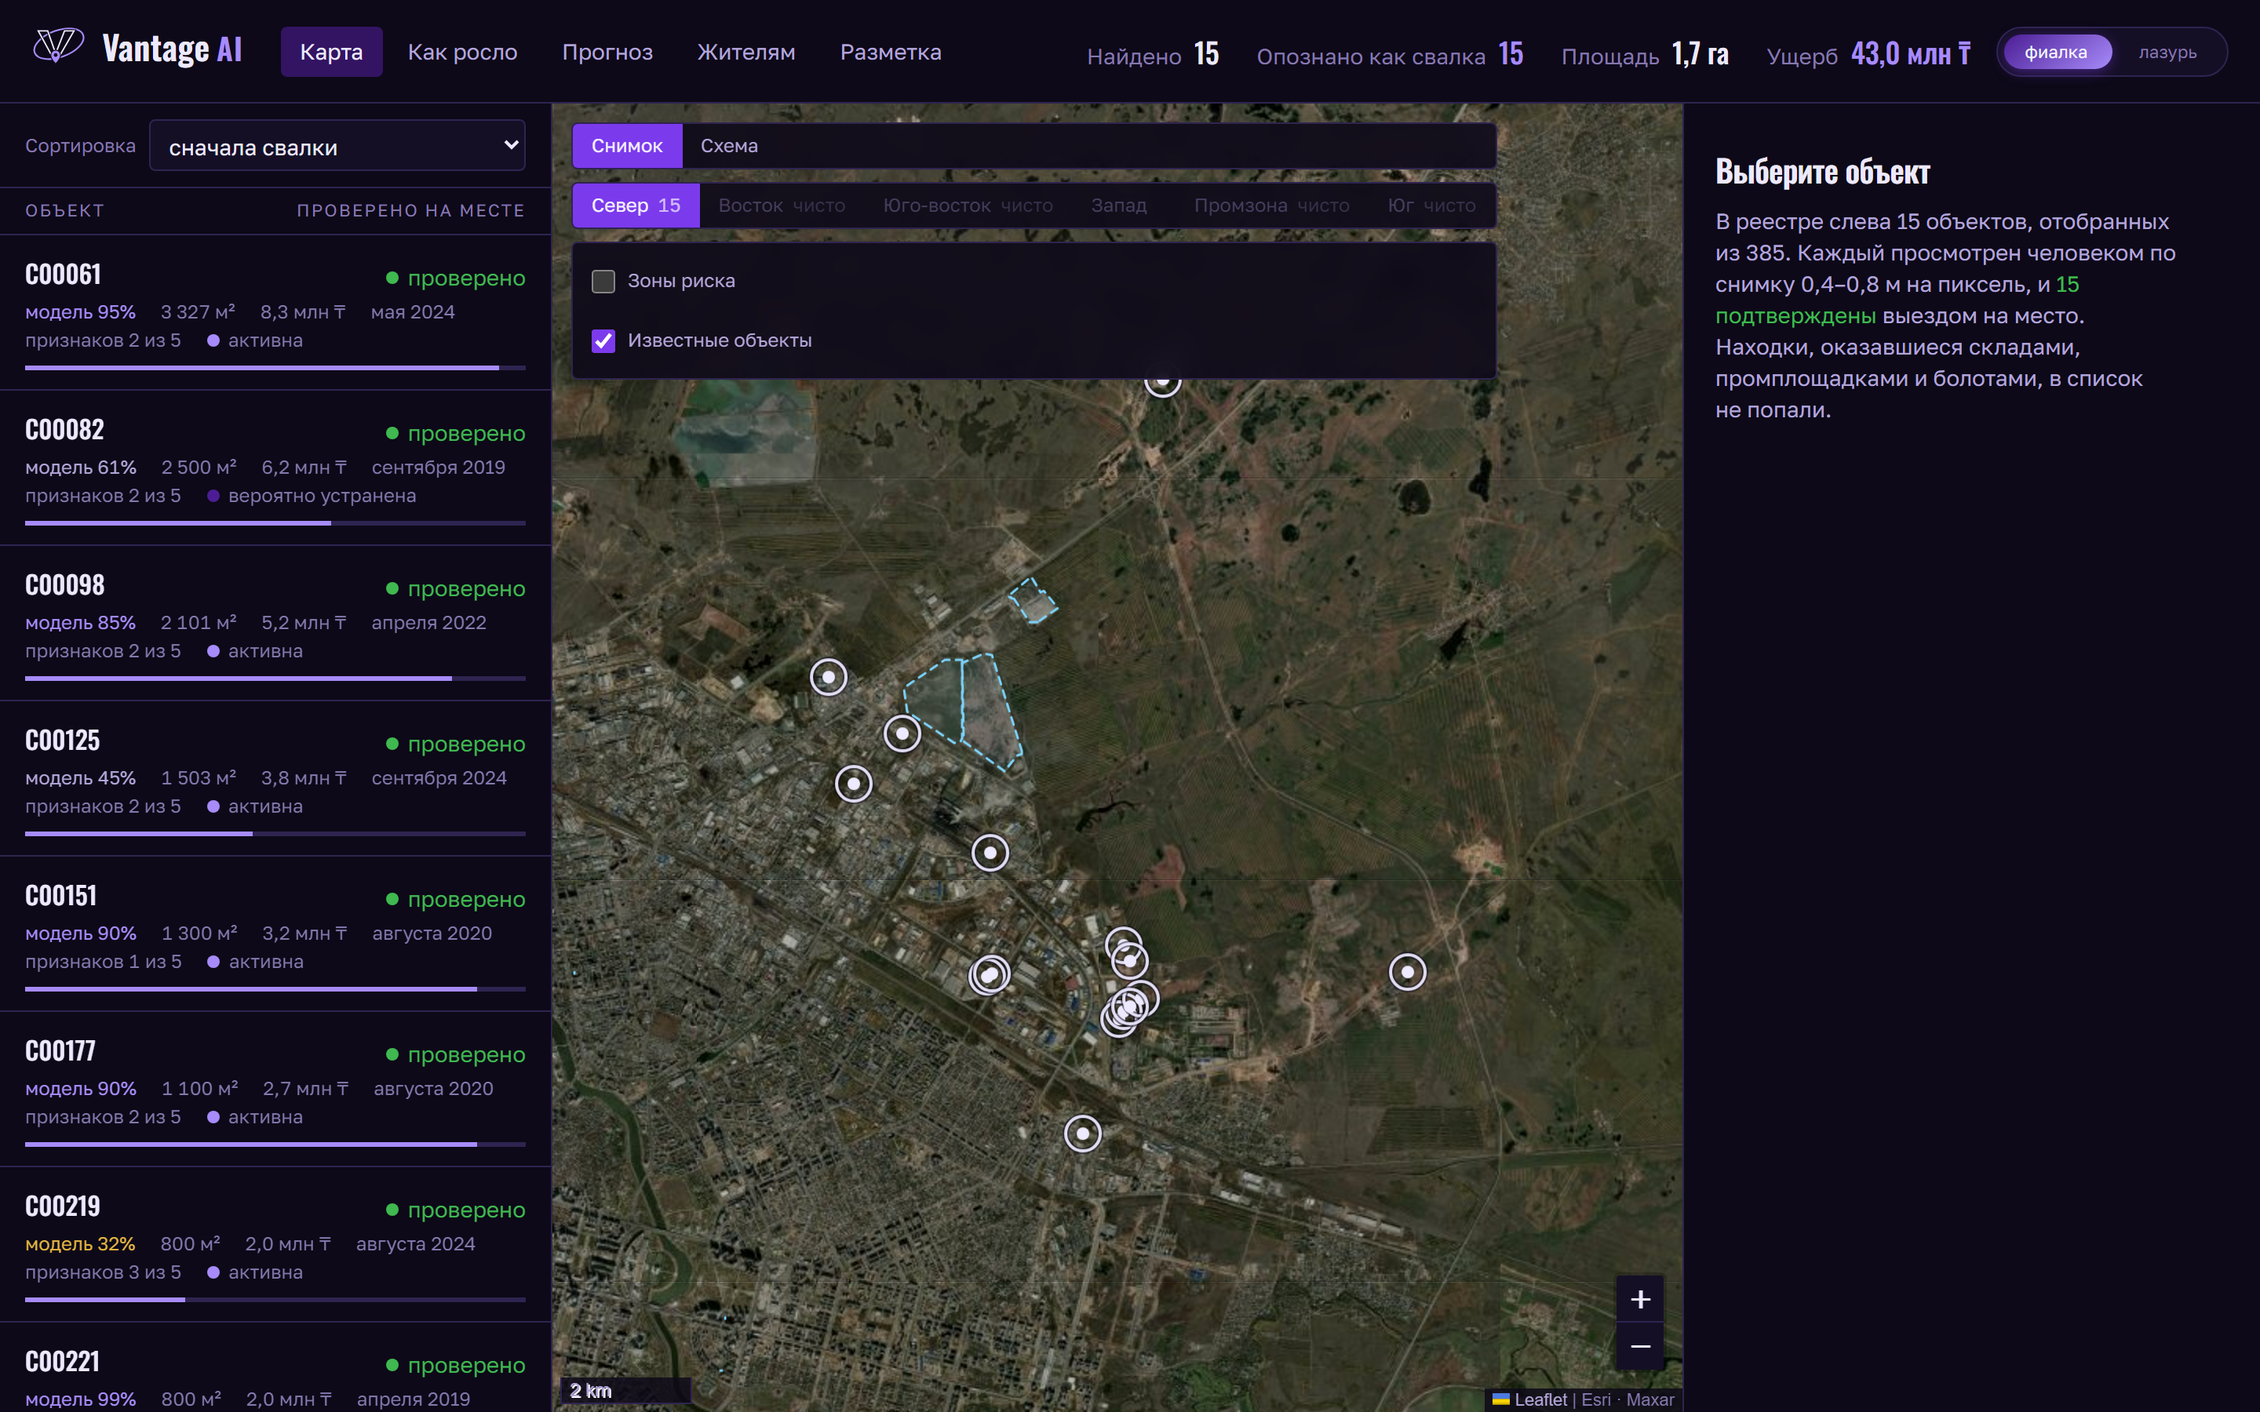
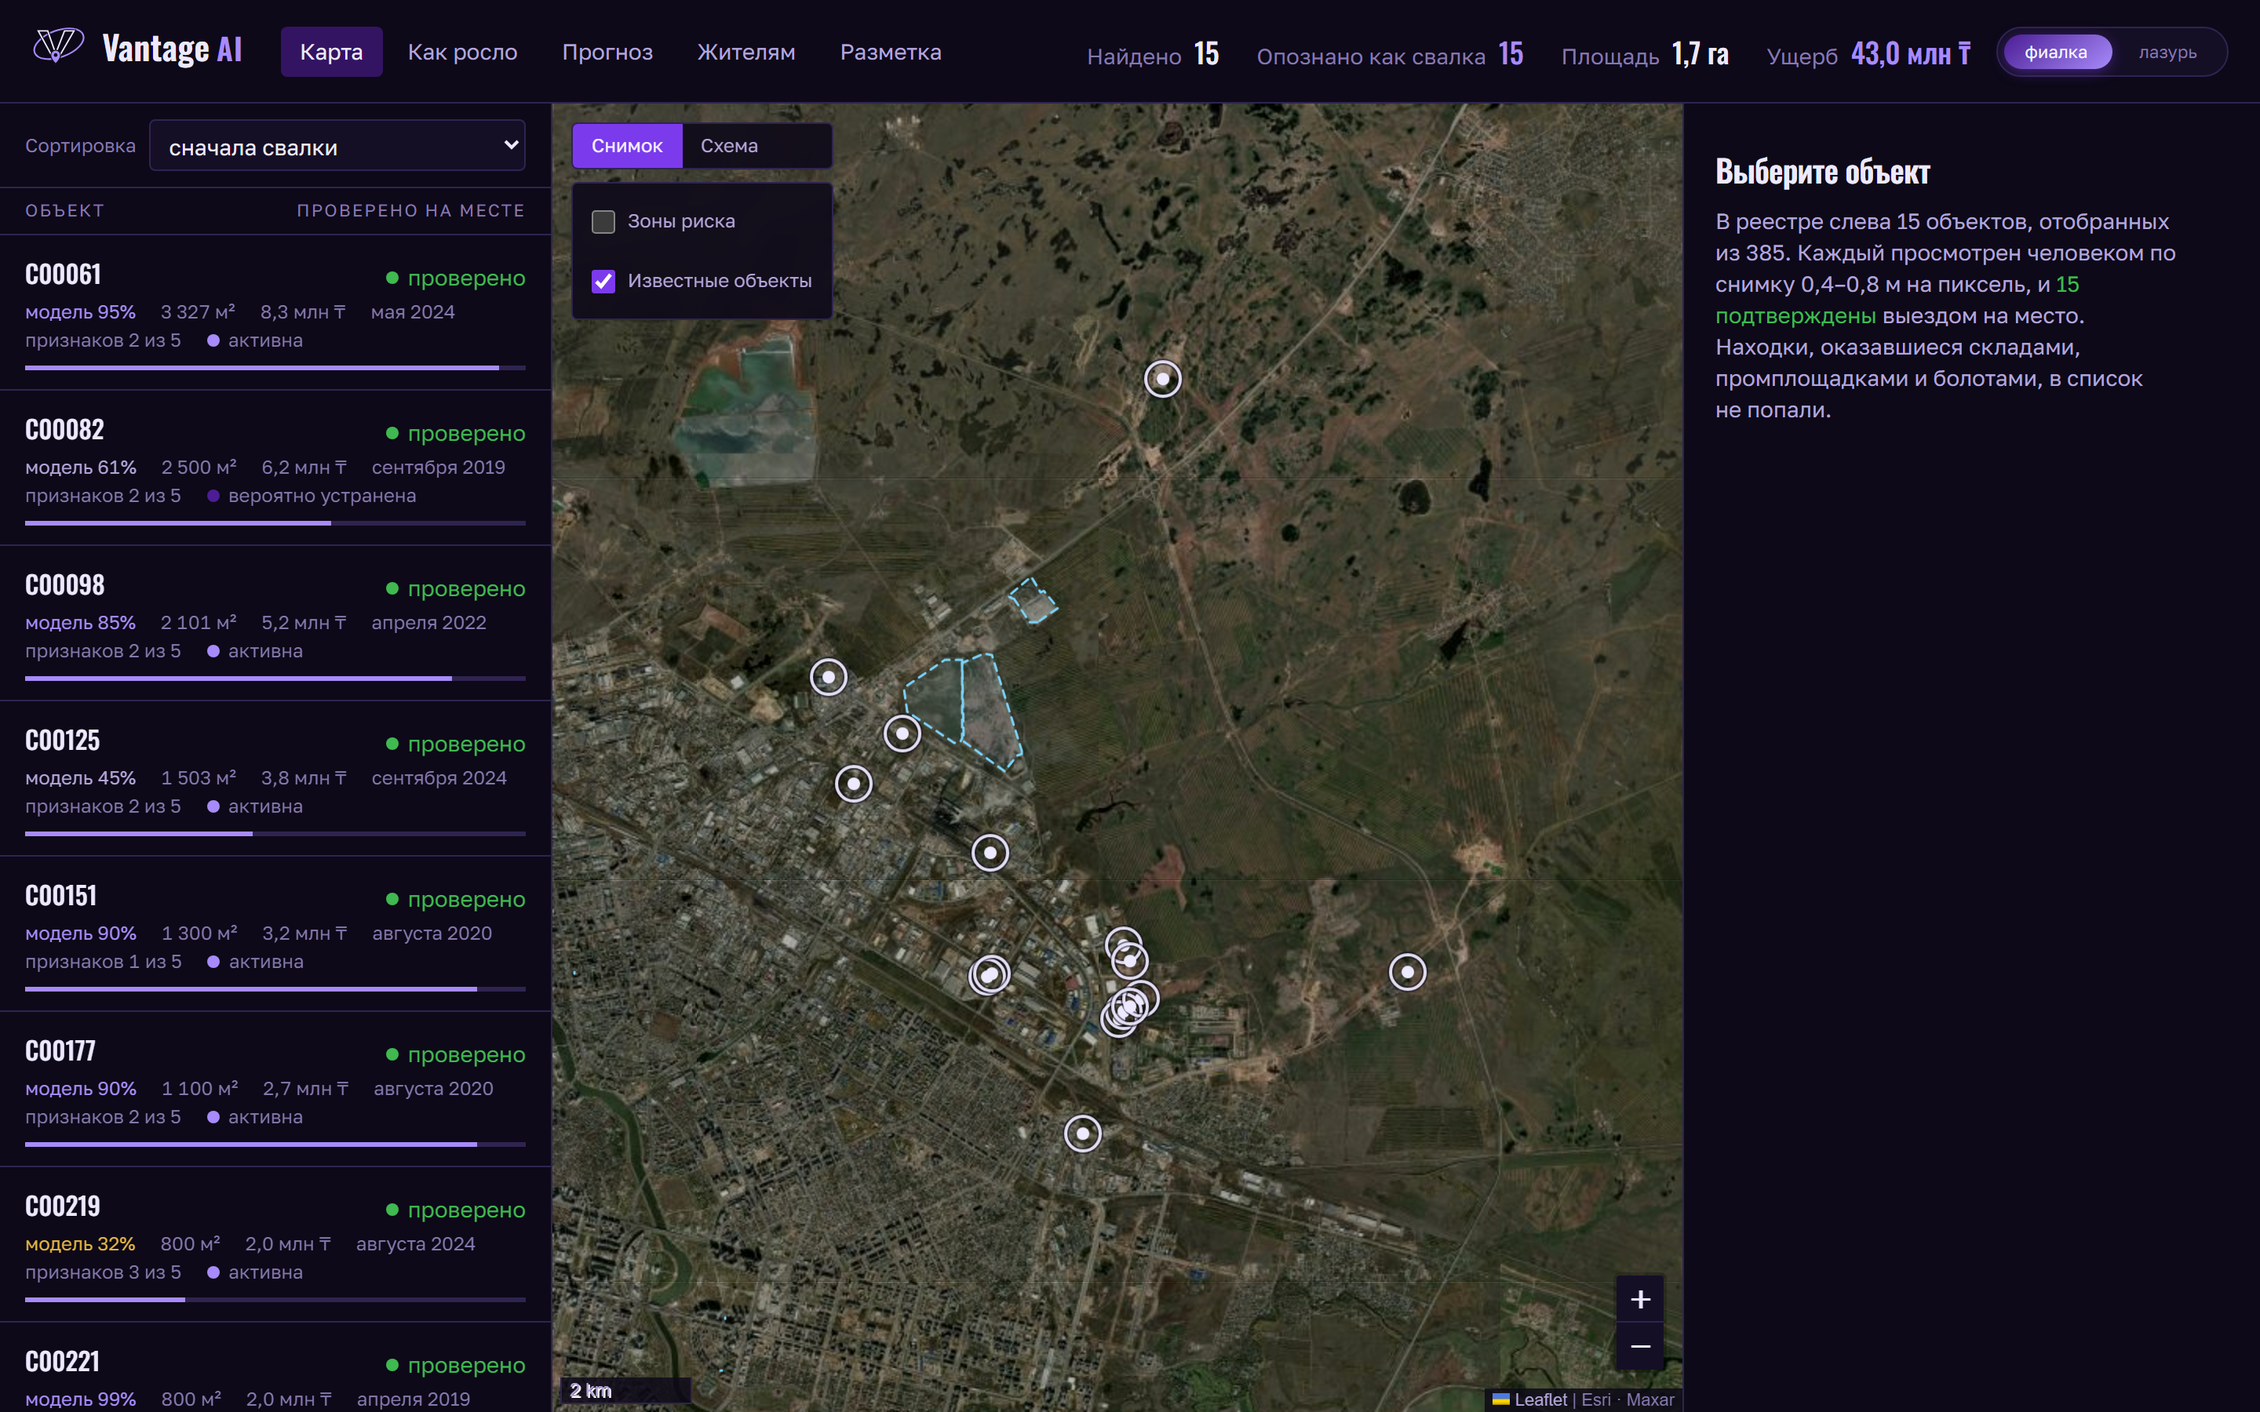
На карте осталась одна область — та, где метод работает
Пять пригородных поясов посчитаны полностью и просмотрены глазами до
последней находки: 159 объектов, настоящих свалок ноль. Это не неудача
прогонов, а измеренная граница метода, и объяснена она текстом в
ограничениях и разбором в BELTS.md.

Пять пустых вкладок на карте объясняют то же самое хуже и тратят внимание
на переключение. Переключатель областей исчезает сам, когда область одна.

Числа при этом не уменьшились и не подгонялись: охват и просмотренные
объекты считаются по всем прогонам, а не по списку областей продукта —
1 709 км², 218 просмотренных, свалки нашлись в одной области из пяти.
На вопрос «сколько вы покрыли» ответ прежний, и он проверяется по папкам
прогонов.

Западный пояс досчитан до 32 плиток из 35 и остановлен: область была
предсказана как провальная по замеру (промышленной земли 0,62%), и
доводить её ради шестой пустой вкладки незачем.

675 проверок, шесть страниц, карта без интернета, пятнадцать сочетаний
узких экранов.

Changed region(s): [[0.25, 0.0622, 0.6875, 0.28]]

diff --git a/web-next/src/App.tsx b/web-next/src/App.tsx
@@ -570,7 +570,8 @@ export default function App() {
                 площадь — сумма областей, у которых есть выгрузка кандидатов;
                 пересчитывается тем же способом, что в scripts/finish_all.py. */}
             {[
-              ['1 709 км²', 'пять областей вокруг Астаны', 'посчитано полностью'],
+              ['1 709 км²', 'посчитано вокруг Астаны за два дня',
+               'свалки нашлись в одной области из пяти'],
               ['8 120 км²', 'пригороды 20 областных центров', 'около сорока часов'],
               ['12 минут', 'просмотреть агломерацию и выбрать, где считать', 'до прогона, без снимков'],
             ].map(([big, what, cost]) => (

diff --git a/scripts/key_numbers.py b/scripts/key_numbers.py
@@ -82,16 +82,38 @@ def main() -> int:
     by_eye = passed - len(site)
     auto = sum(v for k, v in rejected.items() if k != "ПРОШЁЛ ОТСЕВ")
 
-    config = yaml.safe_load(Path("config/cities.yaml").read_text(encoding="utf-8"))["cities"]
+    # Площадь считается по ВСЕМ посчитанным папкам, а не по списку
+    # областей продукта: пригородные пояса убраны с карты, потому что дали
+    # ноль, но посчитаны они были, и на вопрос «сколько вы покрыли» ответ
+    # именно такой.
+    ALL_AREAS = {
+        "astana": (71.37, 51.12, 71.66, 51.30),
+        "astana_east": (71.66, 51.10, 71.95, 51.28),
+        "astana_southeast": (71.60, 51.02, 71.88, 51.18),
+        "astana_west": (71.08, 51.04, 71.36, 51.28),
+        "astana_industrial_west": (71.18, 51.06, 71.42, 51.22),
+        "astana_south": (71.38, 50.99, 71.58, 51.15),
+    }
     covered = 0.0
-    for city in config:
-        folder = Path("outputs_real") if city["id"] == "astana" else Path(f"outputs_{city['id']}")
+    counted = 0
+    for area, bbox in ALL_AREAS.items():
+        folder = Path("outputs_real") if area == "astana" else Path(f"outputs_{area}")
         if (folder / "candidates_raw.geojson").exists():
-            g = gpd.GeoDataFrame(geometry=[box(*city["bbox"])], crs=4326).to_crs(32642)
+            g = gpd.GeoDataFrame(geometry=[box(*bbox)], crs=4326).to_crs(32642)
             covered += float(g.area.iloc[0]) / 1e6
+            counted += 1
 
     ages = (pd.Timestamp.today() - pd.to_datetime(site["break_date"])).dt.days / 365.25
-    reviewed = sum(int(c.get("reviewed", 0)) for c in cities)
+    # Просмотренные объекты — по всем прогонам, а не по областям продукта.
+    reviewed = 0
+    for area in ALL_AREAS:
+        folder = Path("outputs_real") if area == "astana" else Path(f"outputs_{area}")
+        path = folder / "candidates.geojson"
+        if path.exists():
+            try:
+                reviewed += len(gpd.read_file(path))
+            except Exception:
+                pass
 
     L = [
         "# Числа проекта",
@@ -129,7 +151,11 @@ def main() -> int:
         *([f"| └─ требуют выезда | {unclear} | вердикт человека |"] if unclear else []),
         f"| **Подтверждено выездом на место** | **{ground}** | ground_truth.json |",
         *([f"| ├─ из них с фотофиксацией | {photos} | data/field/ |"] if photos else []),
-        f"| Просмотрено человеком всего | **{reviewed}** | по пяти областям |",
+        # Просмотрено — по всей проделанной работе, а не по тому, что
+        # осталось в продукте. Пять пригородных поясов посчитаны и
+        # просмотрены полностью; в списке областей их больше нет, потому
+        # что все дали ноль, но работа была и в счёт входит.
+        f"| Просмотрено человеком всего | **{reviewed}** | все прогоны, включая пустые пояса |",
         f"| Меток разметки в источнике | {len(labels)} | labels_manual.geojson |",
         "",
         "## Деньги и вред",
@@ -150,7 +176,8 @@ def main() -> int:
         "| Что | Сколько |",
         "|---|---:|",
         f"| Посчитано площади | **{ru(covered)} км²** |",
-        f"| Областей посчитано | {sum(1 for c in cities if c.get('reviewed'))} из {len(cities)} |",
+        f"| Областей посчитано | {counted} |",
+        f"| Из них дали настоящие свалки | 1 — северное кольцо |",
         f"| Ячеек в сетке риска | {ru(metrics.get('cells', 0))} |",
         "",
         "### По областям",

diff --git a/tests/test_merge_prefixes.py b/tests/test_merge_prefixes.py
@@ -65,6 +65,8 @@ class TestPrefixesSeparateAreas:
         Проверка не про код, а про то, почему запасного варианта больше
         нет: она падает, если кто-нибудь решит его вернуть как разумный.
         """
+        if len(areas) < 2:
+            pytest.skip("область одна — сливать нечего")
         naive = {a[:3].upper() for a in areas}
         assert len(naive) < len(areas), (
             "первые три буквы стали различать области — но полагаться на это "

diff --git a/docs/NUMBERS.md b/docs/NUMBERS.md
@@ -19,7 +19,7 @@
 | **Опубликовано на сайте** | **15** | candidates.geojson |
 | ├─ опознаны как свалки | **15** | вердикт человека |
 | **Подтверждено выездом на место** | **15** | ground_truth.json |
-| Просмотрено человеком всего | **218** | по пяти областям |
+| Просмотрено человеком всего | **218** | все прогоны, включая пустые пояса |
 | Меток разметки в источнике | 179 | labels_manual.geojson |
 
 ## Деньги и вред
@@ -39,7 +39,8 @@
 | Что | Сколько |
 |---|---:|
 | Посчитано площади | **1 709 км²** |
-| Областей посчитано | 5 из 6 |
+| Областей посчитано | 5 |
+| Из них дали настоящие свалки | 1 — северное кольцо |
 | Ячеек в сетке риска | 1 700 |
 
 ### По областям
@@ -47,11 +48,6 @@
 | Область | Просмотрено | Свалок | Состояние |
 |---|---:|---:|---|
 | Астана · северная промзона | 59 | 15 | работает |
-| Астана · восток | 33 | 0 | проверено, чисто |
-| Астана · юго-восток | 63 | 0 | проверено, чисто |
-| Астана · запад | 0 | 0 | не считалась |
-| Астана · западная промзона | 42 | 0 | проверено, чисто |
-| Астана · юг | 21 | 0 | проверено, чисто |
 
 ## Модели
 

diff --git a/README.md b/README.md
@@ -5,11 +5,14 @@
 Future Minds Hackathon 2026 · трек EcoFin · Астана
 
 **Состояние на 23 августа 2026.** Пятнадцать свалок под Астаной, и каждая
-проверена человеком на месте, а не только по снимку. Посчитано пять
-областей, 1 709 км²; все 59 находок кольца просмотрены до единой.
+проверена человеком на месте, а не только по снимку.
 
-Четыре области из пяти дали ноль настоящих свалок — это измеренная
-граница применимости, а не провал: разбор в [docs/BELTS.md](docs/BELTS.md).
+Посчитано **1 709 км²** — пять областей вокруг города, 218 находок
+просмотрены глазами до единой. Свалки нашлись в одной области из пяти;
+остальные четыре — пригородные пояса, и ноль настоящих свалок там не
+провал прогона, а измеренная граница метода: разбор в
+[docs/BELTS.md](docs/BELTS.md). На карте продукта осталась область, где
+метод работает.
 
 Все числа проекта одной страницей: [docs/NUMBERS.md](docs/NUMBERS.md)
 (собирается скриптом, устареть незаметно не может).
